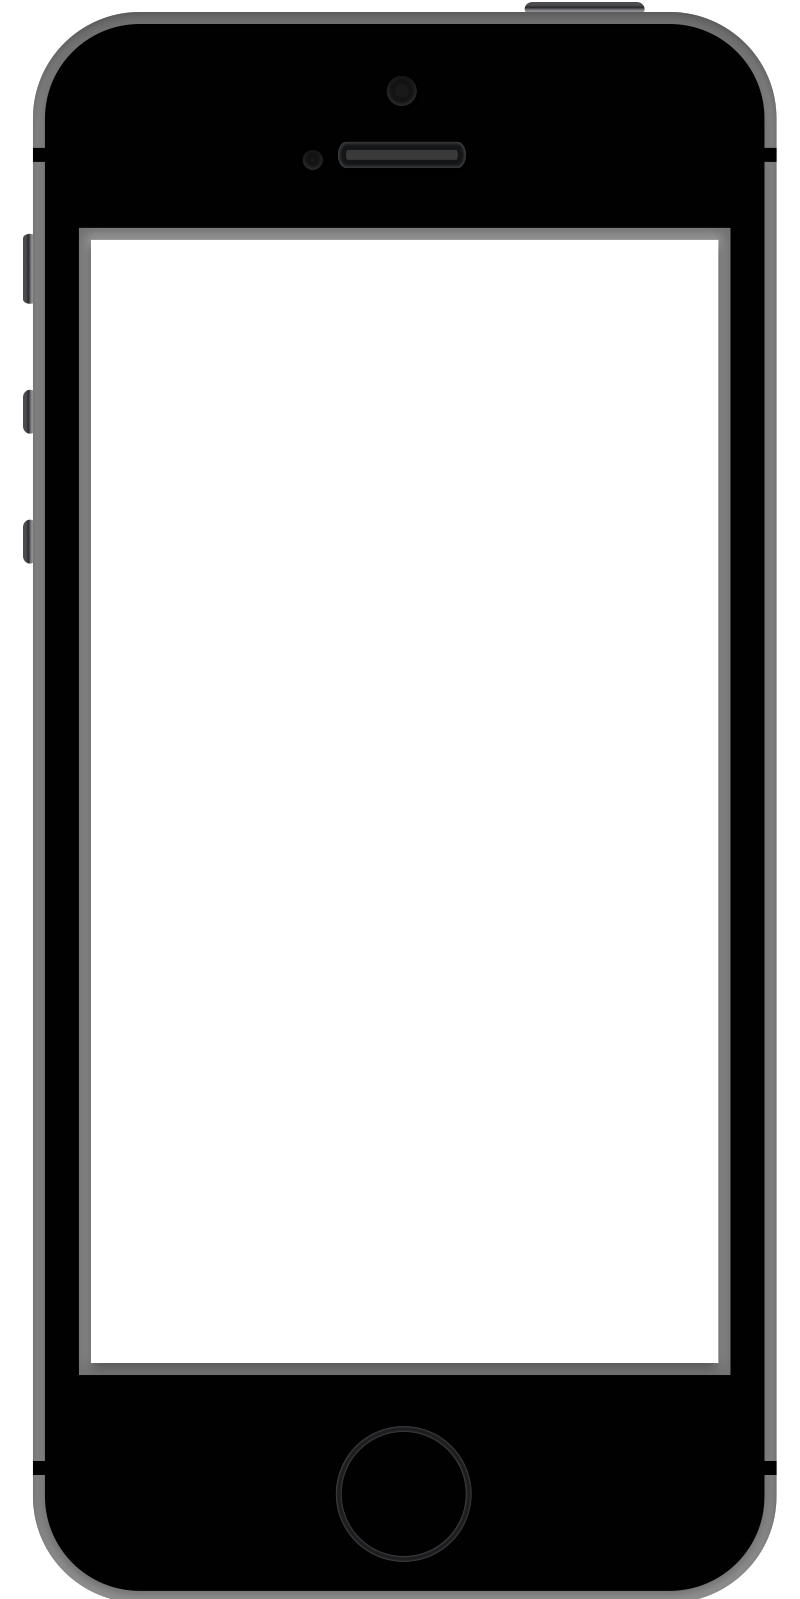
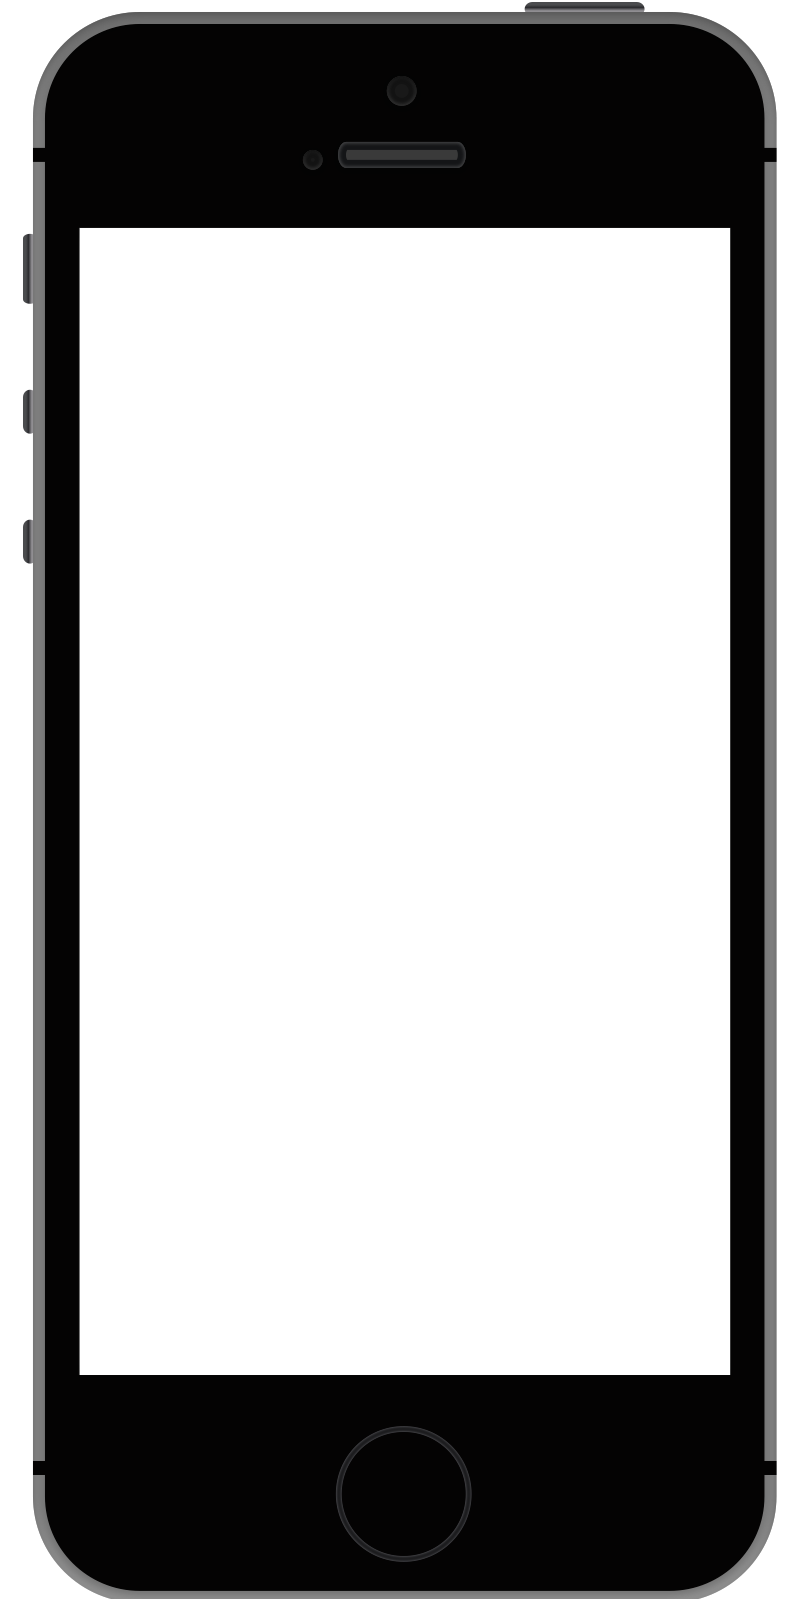
For now, mostly finished site.
Added screenshots of app for previewing.
Updated links and emails.

Changed region(s): [[0.0938, 0.1226, 0.9375, 0.858]]

diff --git a/index.html b/index.html
@@ -27,7 +27,7 @@
         <div class="isle main_isle">
             <div id="header_content">
                 <div id="title_wrap" class="center_text"> 
-                    <img src="Site/images/Logo_full.png" alt="LemonNotes Logo">
+                    <img id="title" src="Site/images/Logo_full.png" alt="LemonNotes Logo">
                 </div>
                 <p   id="phrase" class="center_text">League of Legends is about to get a whole lot simpler.</p>
             </div>
@@ -81,15 +81,19 @@
                         <!-- Box for preview -->
                         <div id="preview" class="col">
                             <img id="frame" src="Site/images/iphone_frame.png">
-                            <ul id="preview_list" class="hor_list container">
-                            
-                            </ul>
+                            <div id="preview_window">
+                                <div id="preview_list">
+                                    <img class="preview_img" src="Site/images/match_history.png">
+                                    <img class="preview_img" src="Site/images/summoner_search.png">
+                                    <img class="preview_img" src="Site/images/teammate_search.png">
+                                </div>
+                            </div>
                         </div>
                         
                         <!-- Box for caption -->
                         <div class="caption col container">
                             <ul id="caption_list">
-                                <li class="caption_item" id="test">
+                                <li class="caption_item">
                                     <h3 class="caption_title">Match History</h3>
                                     <p  class="caption_body">
                                         Easily view your previous games in one glance. </p>
@@ -105,6 +109,15 @@
                                         Search for another summoner from any region. <br>
                                         Get the match history and look at all the details of how another 
                                         summoner did recently (even pro players!) </p>
+                                </li>
+                                <li class="caption_item">
+                                    <h3 class="caption_title">Teammate Search</h3>
+                                    <p  class="caption_body">
+                                        Want to know what you're getting yourself into? </p>
+                                    <p class="caption_body">
+                                        Search for other summoners in your ranked champ select! <br>
+                                        Get a brief summary of each teammate on their recently
+                                        played champions and performances on them!</p>
                                 </li>
                             </ul>
                         </div>
@@ -138,11 +151,11 @@
                         <p  class="prof_role">Cofounder/Developer</p>
                         <p  class="prof_job">Student, Yale University</p>
                         <p  class="prof_desc">
-                            Not yet decided on pursuing Computer Science as a major, but an avid programmer.
-                            Loves to tackle new languages and build small projects for fun.
-                            Although silly and lighthearted most of the time (note picture), 
-                            Chris gets down to work when needed. Working on the main Ban an Pick Phase 
-                            teammate search.
+                            Currently working on Teammate Search. <br>
+                            Although not a Computer Science major, Chris is an avid programmer.
+                            He loves to tackle new languages and build small programs for fun.
+                            Silly and joking on the outside(note picture), but gets serious and down to work
+                            when needed.
                         </p>
                     </div>
                     <div class="col right prof">
@@ -151,10 +164,12 @@
                         <p  class="prof_role">Cofounder/Developer</p>
                         <p  class="prof_job">Student, Unv. Southern California</p>
                         <p  class="prof_desc">
-                            Currently pursing a BS in Computer Science. 
-                            Loves to code and play video games. Also interested in design and UI/UX, 
-                            so likes make things look as pretty as possible. Mainly worked on the
-                            summoner match history section of app.
+                            Currently working on Match History. <br>
+                            Dennis is pursuing a BS in CS, and is hoping to learn outside
+                            the classroom with personal projects and fiddling. Aside from
+                            usual backend, interested in design and UI/UX.
+                            Although slow to hop onto a project unless sure, gets into the work
+                            once the ball starts rolling.
                         </p>
                     </div>
                 </div>
@@ -180,8 +195,7 @@
                  <div id="contact_content">
                     <div class="contact_box">
                          <p class="contact_name">Chris Fu</p>
-                         <a class="normal_link" href="mailto:">dummy@yale.edu</a>
-
+                         <a class="normal_link" href="mailto:christopher.fu@yale.edu">christopher.fu@yale.edu</a>
                      </div>
 
                      <div class="contact_box">

diff --git a/Site/js/main.js b/Site/js/main.js
@@ -87,7 +87,7 @@ $( document ).ready(function(){
             target = target.length ? target : $('[name=' + this.hash.slice(1) +']');
             if (target.length) 
             {
-                $('html,body').animate({ scrollTop: (target.offset().top - nav_height)}, 850);
+                $('html,body').animate({ scrollTop: (target.offset().top - nav_height)}, 500);
                 return false;
             }
         }
@@ -102,41 +102,43 @@ $( document ).ready(function(){
     
     //features nav
     var captionIndex = 0;
-    var numCaptions = $("#caption_list li").length;
+    var numCaptions = $("a.content_link").length;
+    console.log(numCaptions);
     $("#content_left").click(function(event)
     {
         event.preventDefault();
+        console.log(captionIndex);
         if (captionIndex > 0)
         {
             captionIndex--;
-            var left_offset = captionIndex * -100;
-            $("#caption_list").css("left", left_offset.toString() + "%");
-            
-            $(".content_link").removeClass("active");
-            $("a.content_link").eq(captionIndex).addClass("active");
+            featureNav(captionIndex);
         }
     });
     $("#content_right").click(function(event)
     {
         event.preventDefault();
+        console.log(captionIndex);
         if (captionIndex < numCaptions - 1)
         {
             captionIndex++;
-            var left_offset = captionIndex * -100;
-            $("#caption_list").css("left", left_offset.toString() + "%");
-            
-            $(".content_link").removeClass("active");
-            $("a.content_link").eq(captionIndex).addClass("active");
+            featureNav(captionIndex);
         }
     });
     $(".content_link").click(function(event)
     {
         event.preventDefault();
-        var index = $("a.content_link").index(this);
-        var left_offset = index * -100;
-        $("#caption_list").css("left", left_offset.toString() + "%");
-        
-        $(".content_link").removeClass("active");
-        $(this).addClass("active");
+        captionIndex = $("a.content_link").index(this);
+        featureNav(captionIndex);
+        console.log(captionIndex);
     });
+    
+    function featureNav(index)
+    {
+        var offset = index * -100;
+        $("#caption_list").css("left", offset.toString() + "%");
+        $("#preview_list").css("top", offset.toString() + "%");
+        
+        $("a.content_link").removeClass("active");
+        $("a.content_link").eq(index).addClass("active");
+    }
 });

diff --git a/Site/css/main.css b/Site/css/main.css
@@ -120,7 +120,7 @@ ul {
     -webkit-transition: 0.5s linear 0s; }
   #header #title {
     width: 450px;
-    height: 100px; }
+    height: auto; }
   #header #phrase {
     font-size: 16px;
     font-weight: 500;
@@ -255,16 +255,28 @@ ul {
     height: auto;
     left: 20px;
     position: absolute; }
-  #features #preview_list {
+  #features #preview_window {
     z-index: 0;
-    background: #87CDFF;
-    width: 200px;
-    height: 351px;
-    top: 75px;
-    left: 45px;
+    width: 210px;
+    height: 360px;
+    overflow: hidden;
+    left: 40px;
+    top: 70px;
     position: relative; }
+  #features #preview_list {
+    height: 1080px;
+    position: relative;
+    font-size: 0;
+    top: 0%;
+    transition: 0.5s linear 0s;
+    -ms-transition: 0.5s linear 0s;
+    -moz-transition: 0.5s linear 0s;
+    -webkit-transition: 0.5s linear 0s; }
+  #features .preview_img {
+    width: 210px;
+    height: 360px; }
   #features #caption_list {
-    width: 200%;
+    width: 300%;
     height: 100%;
     position: relative;
     left: 0%;

diff --git a/Site/css_src/main.scss b/Site/css_src/main.scss
@@ -92,7 +92,7 @@ ul { list-style: none; }
     }
     #title {
         width: 450px;
-        height: 100px;
+        height: auto;
     }
     
     //phrase
@@ -238,18 +238,31 @@ $main_col_width: $content_width * 0.90;
         left: 20px;
         position: absolute;
     }
-    #preview_list {
+    #preview_window {
         z-index: 0;
-        background: #87CDFF;
-        width: 200px;
-        height: 351px;
+        width: 210px;
+        height: 360px;
+        overflow: hidden;
         
-        top: 75px;
-        left: 45px;
+        left: 40px;
+        top: 70px;
         position: relative;
     }
+    #preview_list { 
+        height: 3 * 360px;
+        position: relative; 
+        font-size: 0;
+        top: 0%;
+        @include transition(0.5s, linear, 0s);
+    }
+    .preview_img {
+        width: 210px;
+        height: 360px;
+    }
+    
+    //captions
     #caption_list {
-        width: 200%;
+        width: 300%;
         height: 100%;
         position: relative;
         left: 0%;
